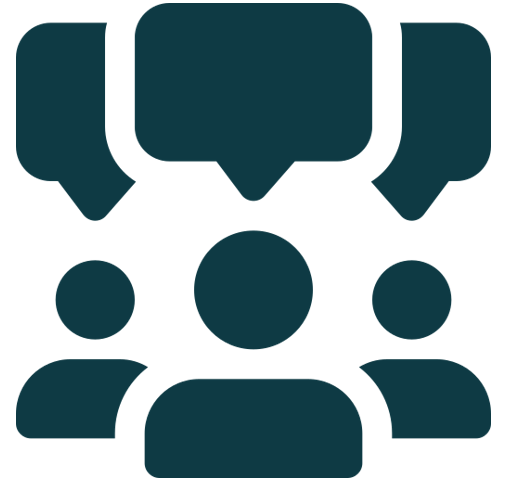
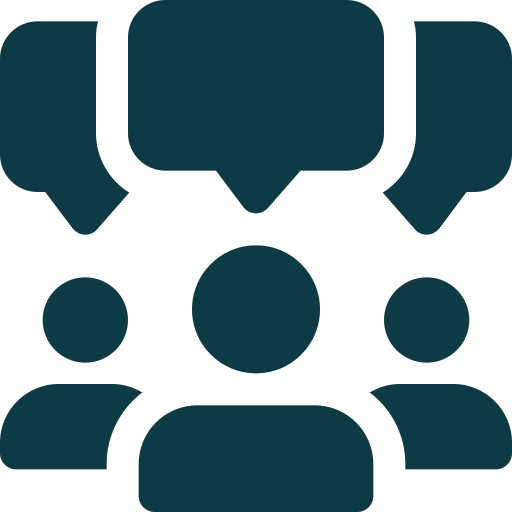
Actualizar iconos de tabs a .png (antes .jpeg, quedaron rotos)
Se reemplazaron capacitaciones/capacitaciones_activo/foro_activo/
home_activo/perfil/perfil_activo de .jpeg a .png; se actualizan las
referencias require() en AppNavigator.tsx que seguian apuntando a los
.jpeg ya eliminados (rompian el bundler).

diff --git a/src/navigation/AppNavigator.tsx b/src/navigation/AppNavigator.tsx
@@ -54,7 +54,7 @@ function TabNavigator() {
         options={{
           tabBarIcon: ({ focused }) => (
             <Image
-              source={focused ? require('../../assets/home_activo.jpeg') : require('../../assets/home.png')}
+              source={focused ? require('../../assets/home_activo.png') : require('../../assets/home.png')}
               style={styles.tabIcon}
               resizeMode="contain"
             />
@@ -67,7 +67,7 @@ function TabNavigator() {
         options={{
           tabBarIcon: ({ focused }) => (
             <Image
-              source={focused ? require('../../assets/foro_activo.jpeg') : require('../../assets/foro.png')}
+              source={focused ? require('../../assets/foro_activo.png') : require('../../assets/foro.png')}
               style={styles.tabIcon}
               resizeMode="contain"
             />
@@ -102,8 +102,8 @@ function TabNavigator() {
             <Image
               source={
                 focused
-                  ? require('../../assets/capacitaciones_activo.jpeg')
-                  : require('../../assets/capacitaciones.jpeg')
+                  ? require('../../assets/capacitaciones_activo.png')
+                  : require('../../assets/capacitaciones.png')
               }
               style={styles.tabIcon}
               resizeMode="contain"
@@ -117,7 +117,7 @@ function TabNavigator() {
         options={{
           tabBarIcon: ({ focused }) => (
             <Image
-              source={focused ? require('../../assets/perfil_activo.jpeg') : require('../../assets/perfil.jpeg')}
+              source={focused ? require('../../assets/perfil_activo.png') : require('../../assets/perfil.png')}
               style={styles.tabIcon}
               resizeMode="contain"
             />
